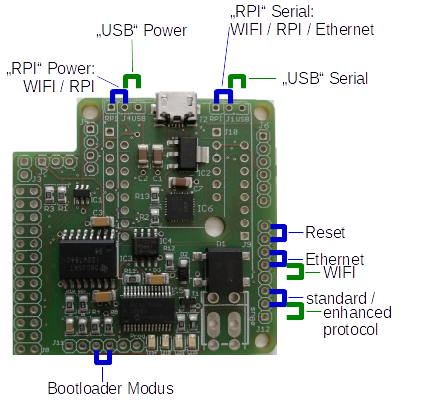
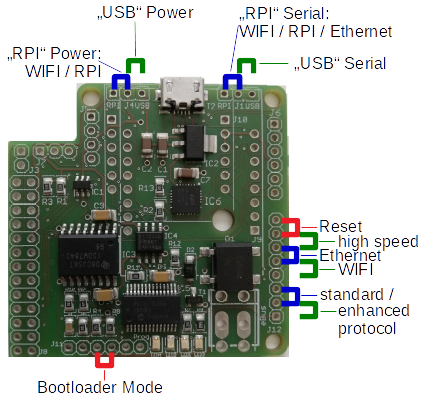
prepare for high speed firmware, add home-assistant, format

diff --git a/index.md b/index.md
@@ -10,7 +10,7 @@ Dies ist die Dokumentation des eBUS Adapters, mit dessen Hilfe man mit einer eBU
 Solaranlage kommunizieren kann.
 
 Einen solchen [Adapter kann man hier reservieren](https://ebusd.de/meinadapter/)
-und dieser wird dann der Reihe nach versendet, sobald die nächste Charge verfügbar wird.
+und dieser wird dann der Reihe nach versendet, sobald die nächste Charge verfügbar ist.
 
 ### Einführung
 
@@ -24,7 +24,7 @@ Dies wird durch Einsatz eines PIC ermöglicht, der u.a. folgende Vorteile mit si
    * [Raspberry Pi](#raspberry-pi){:.rpi} über GPIO/ttyAMA0
    * [WIFI](#wifi){:.wifi} über LOLIN/Wemos D1 mini mit ESP-8266
    * [Ethernet](#ethernet){:.ethernet} über USR-ES1 Modul mit W5500
- * volle Unterstützung für ebusd enhanced protocol Version 1 sowie standard protocol
+ * volle Unterstützung für ebusd enhanced protocol sowie standard protocol
  * aktualisierbare [Firmware](picfirmware) mittels seriellem Bootloader
 
 Um all diese Optionen auf einer 5cm x 5cm großen Platine realisieren zu können, wird fast nur mit SMD bestückt:
@@ -47,20 +47,31 @@ Hier ist eine Übersicht der einzelnen Komponenten mit ihren Verbindungen:
 * Heizung  
   wird mit dem Adapter über eine 2-Drahtleitung verbunden.
 * Adapter  
-  wird mit ebusd entweder über
+  wird mit ebusd verbunden über
   * USB (UART),
   * GPIO (UART) des Raspberry Pi,
-  * WLAN ([Wemos](wemosebus)) oder
-  * LAN (USR-ES1 Modul mit W5500) verbunden.
+  * WIFI ([Wemos](wemosebus)) oder
+  * LAN (USR-ES1 Modul mit W5500).
 * ebusd  
-  stellt TCP Client, MQTT und HTTP für FHEM, Node-Red, ioBroker und weitere zur Verfügung.
+  interpretiert das eBUS Protokoll und macht die Daten bidirektional via TCP, HTTP, MQTT und KNX
+  für FHEM, Home-Assistant, Node-Red und weitere verfügbar.
 
 ### Varianten
 {:id="variants"}
 In allen Varianten ist die Unterstützung für USB fest verbaut, da der CP2102 immer direkt auf der Platine bestückt ist.
-Diese ist notwendig, um bspw. die PIC Firmware zu aktualisieren oder die Ethernet Konfiguration vorzunehmen.
+Diese ist notwendig, um bspw. die PIC Firmware zu aktualisieren oder eine spezielle Ethernet Konfiguration vorzunehmen.
 
-Über Jumper kann die gewünschte Variante konfiguriert werden.
+Über Jumper wird die entsprechende Variante konfiguriert.
+
+Als Protokoll zwischen ebusd und dem Adapter kann sowohl direkt das eBUS Protokoll ("standard protocol"), als auch das
+ebusd "enhanced protocol" verwendet werden. Das enhanced protocol nutzt alle Vorteile des Adapters, indem die eBUS
+Arbitrierung direkt durch die PIC Firmware übernommen wird.
+
+Für das enhanced protocol gibt es bei serieller Verbindung (USB, RPI und WIFI) zusätzlich die Variante high-speed, womit
+unnötige Verzögerungszeiten durch den Transfer der Daten von/zu ebusd vermieden werden. Dies wird durch Setzen eines
+Jumpers an J12 aktiviert.
+Die ebusd device Konfiguration muss dann vom Präfix `enh:` auf den Präfix `ens:` gesetzt werden, sofern eine direkte
+serielle Verbindung vorliegt (d.h. bei USR oder RPI). Für WIFI muss die ESP Firmware entsprechend konfiguriert werden.
 
 #### USB
 {:.usb}
@@ -93,7 +104,7 @@ Die ebusd device Konfiguration lautet: `-d enh:/dev/ttyAMA0 --latency=50`
 {:.wifi}
 [<img src="img/smd-3dwifi.png" width="200" alt="WIFI" title="WIFI">](img/smd-3dwifi.jpg)  
 Wird ein [LOLIN/Wemos D1 mini mit ESP-8266](https://docs.wemos.cc/en/latest/d1/d1_mini.html) auf J9 gesteckt,
-dann lässt sicher der Adapter via WLAN verwenden.
+dann lässt sicher der Adapter via WIFI verwenden.
 Die Jumper müssen dazu wie folgt gesetzt werden:
 * [J1: RPI](img/smd-wifi.jpg)
 * [J4: offen (oder auf RPI)](img/smd-wifi.jpg)
@@ -192,21 +203,21 @@ nicht nutzbar (auf RX kommt eBUS Traffic an).
 ### Überblick Jumper/Pinleisten, Funktionen
 {:id="jumper"}
 
-|**Anschluss**|Funktion              |[USB](img/smd-usb.jpg)            |[Raspberry Pi](img/smd-rpi.jpg)  |[WIFI](img/smd-wifi.jpg)           |[Ethernet](img/smd-ethernet.jpg)         |
-|:-----------:|----------------------|-------------|------------|---------------|---------------|
-|**J1**       |Jumper TX             |[USB](img/smd-usb.jpg)          |[RPI](img/smd-rpi.jpg)         |[RPI](img/smd-wifi.jpg)            |[RPI](img/smd-ethernet.jpg)            |
-|**J2**       |USB-Anschluss         |USB-Anschluss|-           |-              |Strom-Anschluss|
-|**J3**       |Gassensor             |-            |Gassensor   |Gassensor      |-              |
-|**J4**       |Jumper POWER          |[USB](img/smd-usb.jpg)          |[RPI](img/smd-rpi.jpg)         |[(RPI)](img/smd-wifi.jpg)          |[USB](img/smd-ethernet.jpg)            |
-|**J5**       |I2C                   |-            |I2C         |(I2C)*         |-              |
-|**J6**       |I2C                   |-            |I2C         |(I2C)*+ext     |-              |
-|**J7**       |1wire Sensor          |-            |1wire Sensor|1wire Sensor   |-              |
-|**J8**       |Buchsenleiste RPi GPIO|-            |Raspberry Pi|-              |-              |
-|**J9**       |Buchsenleiste Wemos   |-            |-           |Wemos D1 mini  |-              |
-|**J10**      |Buchsenleiste USR-ES1 |-            |-           |-              |USR-ES1 W5500  |
-|**J11**      |PIC PROG              |-            |-           |-              |-              |
-|**J12**      |PIC AUX               |PIC Jumper   |PIC Jumper  |PIC Jumper: 4-5|PIC Jumper: 5-6|
-|**J13/J14**  |eBUS-Anschluss        |eBUS         |eBUS        |eBUS           |eBUS           |
+| **Anschluss** | Funktion               | [USB](img/smd-usb.jpg)    | [Raspberry Pi](img/smd-rpi.jpg) | [WIFI](img/smd-wifi.jpg)       | [Ethernet](img/smd-ethernet.jpg) |
+|:-------------:|------------------------|---------------------------|---------------------------------|--------------------------------|----------------------------------|
+|    **J1**     | Jumper TX              | [USB](img/smd-usb.jpg)    | [RPI](img/smd-rpi.jpg)          | [RPI](img/smd-wifi.jpg)        | [RPI](img/smd-ethernet.jpg)      |
+|    **J2**     | USB-Anschluss          | USB-Anschluss             | -                               | -                              | Strom-Anschluss                  |
+|    **J3**     | Gassensor              | -                         | Gassensor                       | Gassensor                      | -                                |
+|    **J4**     | Jumper POWER           | [USB](img/smd-usb.jpg)    | [RPI](img/smd-rpi.jpg)          | [(RPI)](img/smd-wifi.jpg)      | [USB](img/smd-ethernet.jpg)      |
+|    **J5**     | I2C                    | -                         | I2C                             | (I2C)*                         | -                                |
+|    **J6**     | I2C                    | -                         | I2C                             | (I2C)*+ext                     | -                                |
+|    **J7**     | 1wire Sensor           | -                         | 1wire Sensor                    | 1wire Sensor                   | -                                |
+|    **J8**     | Buchsenleiste RPi GPIO | -                         | Raspberry Pi                    | -                              | -                                |
+|    **J9**     | Buchsenleiste Wemos    | -                         | -                               | Wemos D1 mini                  | -                                |
+|    **J10**    | Buchsenleiste USR-ES1  | -                         | -                               | -                              | USR-ES1 W5500                    |
+|    **J11**    | PIC PROG               | -                         | -                               | -                              | -                                |
+|    **J12**    | PIC AUX                | [PIC Jumper](picfirmware) | [PIC Jumper](picfirmware)       | [PIC Jumper](picfirmware): 4-5 | [PIC Jumper](picfirmware): 5-6   |
+|  **J13/J14**  | eBUS-Anschluss         | eBUS                      | eBUS                            | eBUS                           | eBUS                             |
 
 \* Zu den Punkten in Klammern:
   * I2C wird derzeit noch nicht von der [ebusd-esp](https://github.com/john30/ebusd-esp) Firmware unterstützt.

diff --git a/index.en.md b/index.en.md
@@ -10,7 +10,7 @@ This is the documentation of the eBUS adapter, which can be used to communicate 
 ventilation or solar system.
 
 You can [reserve such an adapter here](https://ebusd.eu/myadapter/)
-and it will then be sent in sequence as soon as the next batch becomes available.
+and it will then be sent in sequence as soon as the next batch is available.
 
 ### Introduction
 
@@ -24,7 +24,7 @@ This is made possible by the use of a PIC which, among other things, brings the 
    * [Raspberry Pi](#raspberry-pi){:.rpi} via GPIO/ttyAMA0
    * [WIFI](#wifi){:.wifi} via LOLIN/Wemos D1 mini with ESP-8266
    * [Ethernet](#ethernet){:.ethernet} via USR-ES1 module with W5500
- * full support for ebusd enhanced protocol version 1 and standard protocol
+ * full support for ebusd enhanced protocol and standard protocol
  * updatable [firmware](picfirmware.en) using a serial bootloader
 
 In order to be able to get all these options on a 5cm x 5cm board, almost only SMD is used:
@@ -50,10 +50,11 @@ This is an overview of the individual components and their connections:
   connected to ebusd either via
   * USB (UART),
   * GPIO (UART) of the Raspberry Pi,
-  * WLAN ([Wemos](wemosebus)) or
+  * WIFI ([Wemos](wemosebus)) or
   * LAN (USR-ES1 module with W5500).
-* ebusd
-  provides TCP Client, MQTT and HTTP for FHEM, Node-Red, ioBroker and others.
+* ebusd  
+  interprets the eBUS protocol and provides the data bidirectionally via TCP, HTTP, MQTT and KNX
+  for FHEM, Home-Assistant, Node-Red, and others.
 
 ### Variants
 {:id="variants"}
@@ -61,6 +62,15 @@ USB support is built into all variants, as the CP2102 is always installed direct
 This is necessary, to e.g. update the PIC firmware or to adjust the Ethernet configuration.
 
 The desired variant can be configured via jumpers.
+
+The protocol between ebusd and the adapter is either the eBUS protocol directly ("standard protocol") or the
+ebusd "enhanced protocol". The enhanced protocol uses all advantages of the adapter by handling the eBUS
+arbitration directly from the PIC firmware.
+
+For the enhanced protocol, a high-speed variant may be used for serial connections (USB, RPI and WIFI) that avoids
+unnecessary delays due to the transfer of data from/to ebusd. This can be activated by setting a jumpers on J12.
+The ebusd device configuration then needs to be changed from `enh:` prefix to `ens:` prefix for direct serial
+connections (i.e. USB or RPI). For WIFI, the ESP firmware needs to be configured accordingly.
 
 #### USB
 {:.usb}
@@ -92,7 +102,7 @@ The ebusd device configuration is: `-d enh:/dev/ttyAMA0 --latency=50`
 {:.wifi}
 [<img src="img/smd-3dwifi.png" width="200" alt="WIFI" title="WIFI">](img/smd-3dwifi.jpg)  
 By plugging a [LOLIN/Wemos D1 mini with ESP-8266](https://docs.wemos.cc/en/latest/d1/d1_mini.html) onto socket J9,
-the adapter can be used via WLAN.
+the adapter can be used via WIFI.
 The jumpers have to be set as follows:
 * [J1: RPI](img/smd-wifi.jpg)
 * [J4: open (or set to RPI)](img/smd-wifi.jpg)
@@ -188,21 +198,21 @@ be used (on RX eBUS traffic comes in).
 ### Overview of jumpers/pin headers, functions
 {:id="jumper"}
 
-|**Connector**|Function              |[USB](img/smd-usb.jpg)          |[Raspberry Pi](img/smd-rpi.jpg)|[WIFI](img/smd-wifi.jpg)           |[Ethernet](img/smd-ethernet.jpg)         |
-|:-----------:|----------------------|-------------|------------|---------------|---------------|
-|**J1**       |Jumper TX             |[USB](img/smd-usb.jpg)          |[RPI](img/smd-rpi.jpg)         |[RPI](img/smd-wifi.jpg)            |[RPI](img/smd-ethernet.jpg)            |
-|**J2**       |USB connector         |USB connector|-           |-              |power connector|
-|**J3**       |Gas sensor            |-            |Gas sensor  |Gas sensor     |-              |
-|**J4**       |Jumper POWER          |[USB](img/smd-usb.jpg)          |[RPI](img/smd-rpi.jpg)         |[(RPI)](img/smd-wifi.jpg)          |[USB](img/smd-ethernet.jpg)            |
-|**J5**       |I2C                   |-            |I2C         |(I2C)*         |-              |
-|**J6**       |I2C                   |-            |I2C         |(I2C)*+ext     |-              |
-|**J7**       |1wire sensor          |-            |1wire sensor|1wire sensor   |-              |
-|**J8**       |RPi GPIO connector    |-            |Raspberry Pi|-              |-              |
-|**J9**       |Wemos connector       |-            |-           |Wemos D1 mini  |-              |
-|**J10**      |USR-ES1 connector     |-            |-           |-              |USR-ES1 W5500  |
-|**J11**      |PIC PROG              |-            |-           |-              |-              |
-|**J12**      |PIC AUX               |PIC jumper   |PIC jumper  |PIC jumper: 4-5|PIC jumper: 5-6|
-|**J13/J14**  |eBUS connector        |eBUS         |eBUS        |eBUS           |eBUS           |
+| **Connector** | Function           | [USB](img/smd-usb.jpg)       | [Raspberry Pi](img/smd-rpi.jpg) | [WIFI](img/smd-wifi.jpg)          | [Ethernet](img/smd-ethernet.jpg)  |
+|:-------------:|--------------------|------------------------------|---------------------------------|-----------------------------------|-----------------------------------|
+|    **J1**     | Jumper TX          | [USB](img/smd-usb.jpg)       | [RPI](img/smd-rpi.jpg)          | [RPI](img/smd-wifi.jpg)           | [RPI](img/smd-ethernet.jpg)       |
+|    **J2**     | USB connector      | USB connector                | -                               | -                                 | power connector                   |
+|    **J3**     | Gas sensor         | -                            | Gas sensor                      | Gas sensor                        | -                                 |
+|    **J4**     | Jumper POWER       | [USB](img/smd-usb.jpg)       | [RPI](img/smd-rpi.jpg)          | [(RPI)](img/smd-wifi.jpg)         | [USB](img/smd-ethernet.jpg)       |
+|    **J5**     | I2C                | -                            | I2C                             | (I2C)*                            | -                                 |
+|    **J6**     | I2C                | -                            | I2C                             | (I2C)*+ext                        | -                                 |
+|    **J7**     | 1wire sensor       | -                            | 1wire sensor                    | 1wire sensor                      | -                                 |
+|    **J8**     | RPi GPIO connector | -                            | Raspberry Pi                    | -                                 | -                                 |
+|    **J9**     | Wemos connector    | -                            | -                               | Wemos D1 mini                     | -                                 |
+|    **J10**    | USR-ES1 connector  | -                            | -                               | -                                 | USR-ES1 W5500                     |
+|    **J11**    | PIC PROG           | -                            | -                               | -                                 | -                                 |
+|    **J12**    | PIC AUX            | [PIC Jumper](picfirmware.en) | [PIC Jumper](picfirmware.en)    | [PIC Jumper](picfirmware.en): 4-5 | [PIC Jumper](picfirmware.en): 5-6 |
+|  **J13/J14**  | eBUS connector     | eBUS                         | eBUS                            | eBUS                              | eBUS                              |
 
 \* To the points in brackets:
   * I2C is currently not yet supported by the [ebusd-esp](https://github.com/john30/ebusd-esp) firmware.

diff --git a/picfirmware.md b/picfirmware.md
@@ -32,12 +32,14 @@ geht das bspw. so (wobei `/dev/ttyUSB0` evtl. durch das richtige USB serial devi
 
 ### Firmware Versionen
 {:id="versions"}
-* [Version 20220327](firmware/20220327-offset.hex):  
-  Firmware Version laut [ebus PIC Loader](https://github.com/john30/ebusd/blob/master/src/tools/README.md): `1 [63aa]`  
-  Features: ebusd enhanced protocol V1, Ethernet mit DHCP oder fester IP, extra Infos, konfigurierbares Arbitrierungs-Delay  
-  Änderungen: siehe [Changelog](firmware/ChangeLog)  
-  Minimale ebusd Version: [21.1](https://github.com/john30/ebusd/releases/tag/v21.1) (enhanced protocol)  
-  Anschlussbelegung J12:  
+Aktuelle [Version 20220327](firmware/20220327-offset.hex):  
+* Firmware Version laut [ebus PIC Loader](https://github.com/john30/ebusd/blob/master/src/tools/README.md): `1 [63aa]`  
+* Features: ebusd enhanced protocol V1, Ethernet mit DHCP oder fester IP, extra Infos, konfigurierbares Arbitrierungs-Delay  
+* Änderungen: siehe [Changelog](firmware/ChangeLog)  
+* Minimale ebusd Version: 
+  * [21.1](https://github.com/john30/ebusd/releases/tag/v21.1) (enhanced protocol, normal-speed)  
+  * [22.3](https://github.com/john30/ebusd/releases/tag/v22.3) (enhanced protocol, high-speed)
+* Anschlussbelegung J12:  
   * Pin 1: Vdd
   * Pin 2: ebusd protocol:
     * offen (oder verbunden mit Pin 1): enhanced protocol (ebusd)
@@ -49,8 +51,12 @@ geht das bspw. so (wobei `/dev/ttyUSB0` evtl. durch das richtige USB serial devi
     * gegen WIFI-Check (Pin 4): WIFI
     * gegen GND (Pin 6): Ethernet
   * Pin 6: GND
-  * Pin 7: (LOW)
+  * Pin 7:
+    * offen: normal-speed serial
+    * gegen GND (Pin 6): high-speed serial (nur für enhanced protocol, ab Version TODO upcoming)
   * Pin 8: Reset: kurz gegen LOW (Pin 7) oder GND
+
+Frühere Versionen: siehe [Changelog](firmware/ChangeLog)
 
 **Wichtiger Hinweis:** Die Pins am J12 dürfen nie mit irgendeinem Pin der anderen Jumper/Stecker-/Buchsenleisten in
 Verbindung gebracht werden, da hier getrennte Stromquellen zum Einsatz kommen. Jegliche Verbindung gefährdet den Adapter

diff --git a/picfirmware.en.md b/picfirmware.en.md
@@ -30,12 +30,14 @@ it works like this (where `/ dev / ttyUSB0` may have to be replaced by the actua
 
 ### Firmware Versions
 {:id="versions"}
-* [Version 20220327](firmware/20220327-offset.hex):  
-  Firmware version as reported by [ebus PIC Loader](https://github.com/john30/ebusd/blob/master/src/tools/README.md): `1 [63aa]`  
-  Features: ebusd enhanced protocol V1, Ethernet with DHCP or fix IP, extra infos, configurable arbitration delay  
-  Changes: see [Changelog](firmware/ChangeLog)  
-  Minimal ebusd version: [21.1](https://github.com/john30/ebusd/releases/tag/v21.1) (enhanced protocol)  
-  Pins on J12:  
+Current [Version 20220327](firmware/20220327-offset.hex):  
+* Firmware version as reported by [ebus PIC Loader](https://github.com/john30/ebusd/blob/master/src/tools/README.md): `1 [63aa]`  
+* Features: ebusd enhanced protocol V1, Ethernet with DHCP or fix IP, extra infos, configurable arbitration delay  
+* Changes: see [Changelog](firmware/ChangeLog)  
+* Minimal ebusd version:
+  * [21.1](https://github.com/john30/ebusd/releases/tag/v21.1) (enhanced protocol, normal-speed)
+  * [22.3](https://github.com/john30/ebusd/releases/tag/v22.3) (enhanced protocol, high-speed)
+* Pins on J12:  
   * Pin 1: Vdd
   * Pin 2: ebusd protocol:
     * open (or connected to pin 1): enhanced protocol (ebusd)
@@ -47,8 +49,12 @@ it works like this (where `/ dev / ttyUSB0` may have to be replaced by the actua
     * to WIFI-check (Pin 4): WIFI
     * to GND (Pin 6): Ethernet
   * Pin 6: GND
-  * Pin 7: (LOW)
+  * Pin 7:
+    * open: normal-speed serial
+    * to GND (Pin 6): high-speed serial (only for enhanced protocol, since version TODO upcoming)
   * Pin 8: Reset: shortly to LOW (Pin 7) or GND
+
+Former versions: see [Changelog](firmware/ChangeLog)
 
 **Important note:** The pins on J12 must never be connected to any pin on the other jumpers/pin headers/sockets as
 separate power sources are used here. Any connection endangers the adapter and devices on the eBUS!

diff --git a/firmware/ChangeLog.md b/firmware/ChangeLog.md
@@ -4,6 +4,10 @@ lang: en
 ---
 ## Firmware change history
 
+### upcoming version:
+* feat: add high speed serial mode, requires ebusd version >=[22.3](https://github.com/john30/ebusd/releases/tag/v22.3)
+* feat: support v3.1 schematic
+
 ### [Version 20220327](20220327-offset.hex), reported as `1 [63aa]`:
 * feat: signal alive on blue LED as ping every 4 seconds
 * feat: delay sending errors to host
